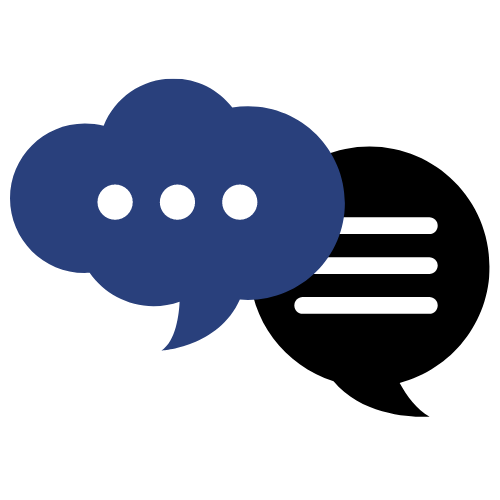
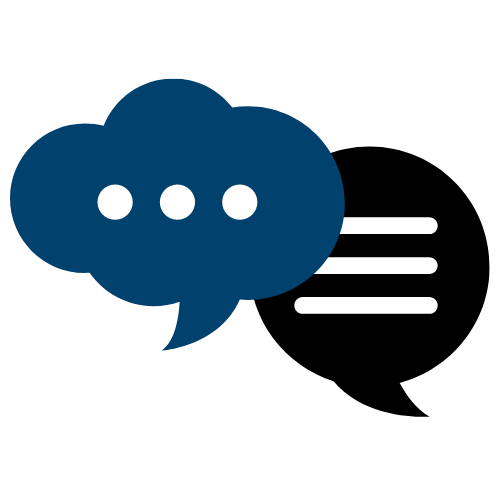
added colour

Changed region(s): [[0.0, 0.15, 0.69, 0.72]]

diff --git a/index.html b/index.html
@@ -190,7 +190,7 @@
 
       .button 
       {
-        background-color: #29407C;
+        background-color: #00416d;
         border: none;
         color: white;
         padding: 8px;
@@ -385,7 +385,7 @@
   <body>
 
     <div class="topnav" id="myTopnav">
-      <a href="index.html" style="font-family: 'Poppins', sans-serif; margin-right:2%; color:black; border-bottom: 2px solid #29407C;">Home</a>
+      <a href="index.html" style="font-family: 'Poppins', sans-serif; margin-right:2%; color:black; border-bottom: 2px solid #00416d;">Home</a>
       <a href="contact.html" style="font-family: 'Poppins', sans-serif;">Contact</a>
       <a href="https://drive.google.com/file/d/12OW3nIJXCdcKeCEGhQVOR6-24cOM_pOw/view?usp=sharing" style="font-family: 'Poppins', sans-serif;" target="_blank">Resume</a>
       <a href="about.html" style="font-family: 'Poppins', sans-serif;">About</a>
@@ -402,7 +402,7 @@
           <img src="miloHome.png" width="65%" >
       </div>
       <div class="columnIntro" style=" text-align:center;padding-top:3%; ">
-          <a style="text-align:center;font-family: 'Abril Fatface', cursive; font-size:400%;">Miloni Mittal</a>
+          <a style="text-align:center;font-family: 'Abril Fatface', cursive; font-size:400%;"><span style="background: linear-gradient(to top, #c4fb6d 50%, transparent 50%);">Miloni Mittal</span></a>
           <br><br>
           <p style="font-family: 'Poppins', sans-serif; font-size:112.5%; ">A final year undergraduate at BITS Pilani, who is passionate about solving problems using the power of data.<br><br></p>
           <div class="social">
@@ -419,10 +419,10 @@
       <a name="target" id="education"> </a>
     </div>
 
-    <p style="text-align:center;font-family: 'Abril Fatface', cursive; font-size:300%; color:white;background-color: black;margin-right:3%;margin-left:3%;">
-        Education
+    <p style="text-align:center;font-family: 'Abril Fatface', cursive; font-size:300%; color:white;background-color:black;margin-right:3%;margin-left:3%;padding-bottom:1.5%;"><span style="background: linear-gradient(to top, #00416d 50%, transparent 50%);">
+        Education</span>
     </p>
-<div class="edu" style="box-shadow: 0 4px 8px 0 rgba(0, 0, 0, 0.2);margin-right:3%;margin-left:3%;padding-top:2%;padding-bottom:2%;">
+    
     <p style="font-family: 'Poppins', sans-serif; margin-top:2%; margin-left:7.5%;margin-right:7.5%;">
         <b style="font-family: 'Poppins', sans-serif; font-size: 125%;">Birla Institute of Technology and Science Pilani, Pilani Campus- BITS Pilani (2017 - 2021)</b><br>
         B.E. Electrical and Electronics, Minor in Data Science <br>
@@ -440,13 +440,13 @@
         <b>ICSE 10th Grade: 96.17%</b><br>
         100% in Computer Science & Mathematics • Awarded as the Best Female All-Rounder among 200 girls
     </p>
-</div>
+    
     <div class="anchor" style="padding-top:2%;" >
       <a name="target" id="internships"> </a>
     </div>
 
-    <p style="text-align:center;font-family: 'Abril Fatface', cursive; font-size:300%; color:white; background-color:black;margin-right:3%;margin-left:3%;">
-        Internships
+    <p style="text-align:center;font-family: 'Abril Fatface', cursive; font-size:300%; color:white;background-color:black;margin-right:3%;margin-left:3%;padding-bottom:1.5%;"><span style="background: linear-gradient(to top, #00416d 50%, transparent 50%);">
+        Internships</span>
     </p>
 
     <div class="rowAwards" style="font-family: 'Poppins', sans-serif; margin-top:2%; margin-left:7.5%;margin-right:7.5%;">
@@ -454,7 +454,7 @@
             <img src="bnymLogo.jpg" alt="Forest" style="width:50%;">
       </div>
       <div class="columnAwardsText">
-            <p style="font-family: 'Poppins', sans-serif; margin-top:2%; "><b style="font-family: 'Poppins', sans-serif; font-size:125%;"><a href="https://www.bnymellon.com/apac/en.html" target="_blank" style="text-decoration: none;color:#29407C;">
+            <p style="font-family: 'Poppins', sans-serif; margin-top:2%; "><b style="font-family: 'Poppins', sans-serif; font-size:125%;"><a href="https://www.bnymellon.com/apac/en.html" target="_blank" style="text-decoration: none;color:#00416d;">
                 Bank of New York Mellon, Pune</a></b> <br>August 2020 - Present
             </p>
             <p style="font-family: 'Poppins', sans-serif;">
@@ -475,7 +475,7 @@
         <img src="walmartLogo.jpg" alt="Forest" style="width:50%;">
       </div>
       <div class="columnAwardsText">
-        <p style="font-family: 'Poppins', sans-serif; margin-top:2%; "><b style="font-family: 'Poppins', sans-serif; font-size:125%;"><a href="https://www.linkedin.com/company/walmartglobaltechindia/" target="_blank" style="text-decoration: none;color:#29407C;">
+        <p style="font-family: 'Poppins', sans-serif; margin-top:2%; "><b style="font-family: 'Poppins', sans-serif; font-size:125%;"><a href="https://www.linkedin.com/company/walmartglobaltechindia/" target="_blank" style="text-decoration: none;color:#00416d;">
                 Walmart Global Tech, Bangalore</a></b> <br>May - July 2020<br>
         </p>
         <p style="font-family: 'Poppins', sans-serif;">
@@ -496,7 +496,7 @@
         <img src="iimaLogo.png" alt="Forest" style="width:50%;">
       </div>
       <div class="columnAwardsText">
-        <p style="font-family: 'Poppins', sans-serif; margin-top:2%; "><b style="font-family: 'Poppins', sans-serif; font-size:125%;"><a href="https://www.iima.ac.in/" target="_blank" style="text-decoration: none;color:#29407C;">
+        <p style="font-family: 'Poppins', sans-serif; margin-top:2%; "><b style="font-family: 'Poppins', sans-serif; font-size:125%;"><a href="https://www.iima.ac.in/" target="_blank" style="text-decoration: none;color:#00416d;">
                 Indian Institute of Management, Ahmedabad </a></b> <br>December 2019 - January 2020
         </p>
         <p style="font-family: 'Poppins', sans-serif;">
@@ -517,7 +517,7 @@
         <img src="ceeriLogo.png" alt="Forest" style="width:50%;">
       </div>
       <div class="columnAwardsText">
-        <p style="font-family: 'Poppins', sans-serif; margin-top:2%; "><b style="font-family: 'Poppins', sans-serif; font-size:125%;"><a href="https://www.csircmc.res.in/ceeri" target="_blank" style="text-decoration: none;color:#29407C;">
+        <p style="font-family: 'Poppins', sans-serif; margin-top:2%; "><b style="font-family: 'Poppins', sans-serif; font-size:125%;"><a href="https://www.csircmc.res.in/ceeri" target="_blank" style="text-decoration: none;color:#00416d;">
                 Central Electronics Engineering Research Institute, Chennai</a></b> <br>May - July 2019
         </p>
         <p style="font-family: 'Poppins', sans-serif;">
@@ -543,7 +543,7 @@
     </div>
 
     <p style="text-align:center;font-family: 'Abril Fatface', cursive; font-size:300%; color:black;">
-        Projects
+        <span style="background: linear-gradient(to top, #c4fb6d 50%, transparent 50%);">Projects</span>
     </p>
 
     <div class="rowCard" >
@@ -634,15 +634,15 @@
       <a name="target" id="publications"> </a>
     </div>
 
-    <p style="text-align:center;font-family: 'Abril Fatface', cursive; font-size:300%; color:white;background-color: black;margin-right:3%;margin-left:3%; ">
-        Publications
+    <p style="text-align:center;font-family: 'Abril Fatface', cursive; font-size:300%; color:white;background-color:black;margin-right:3%;margin-left:3%;padding-bottom:1.5%;"><span style="background: linear-gradient(to top, #00416d 50%, transparent 50%);">
+        Publications</span>
     </p>
 
     <div class="rowAwards" style="font-family: 'Poppins', sans-serif; margin-left:7.5%;margin-right:7.5%;">
       <div class="columnAwardsText">
         <p style="font-family: 'Poppins', sans-serif;">
             <b style="font-family: 'Poppins', sans-serif; font-size:125%;">
-            Real Time Foreground Segmentation in Videos with Dynamic Background<br><a href="https://www.indicon2020.in/" target="_blank" style="text-decoration: none;color:#29407C">INDICON 2020 (IEEE India Council International Conference)</a></b>
+            Real Time Foreground Segmentation in Videos with Dynamic Background<br><a href="https://www.indicon2020.in/" target="_blank" style="text-decoration: none;color:#00416d">INDICON 2020 (IEEE India Council International Conference)</a></b>
             <br>
             <b>Project Description:</b>
             <br>
@@ -659,8 +659,8 @@
         <a name="target" id="awards"> </a>
     </div>
 
-    <p style="text-align:center;font-family: 'Abril Fatface', cursive; font-size:300%;background-color:black;color:white;margin-right:3%;margin-left:3%;">
-        Awards
+    <p style="text-align:center;font-family: 'Abril Fatface', cursive; font-size:300%; color:white;background-color:black;margin-right:3%;margin-left:3%;padding-bottom:1.5%;"><span style="background: linear-gradient(to top, #00416d 50%, transparent 50%);">
+        Awards</span>
     </p>
 
     <div class="rowAwards" style="font-family: 'Poppins', sans-serif; margin-top:2%; margin-left:7.5%;margin-right:7.5%;">
@@ -670,7 +670,7 @@
       <div class="columnAwardsText">
         <p style="font-family: 'Poppins', sans-serif;">
           <b style="font-family: 'Poppins', sans-serif; font-size:125%;">
-              NetApp Women INnovathon Second Runner Up<br><a href="https://www.netapp.com/" target="_blank" style="text-decoration: none; color: #29407C">NetApp, Inc.</a>
+              NetApp Women INnovathon Second Runner Up<br><a href="https://www.netapp.com/" target="_blank" style="text-decoration: none; color: #00416d">NetApp, Inc.</a>
           </b>
           <br>
               <b>October 2020</b>
@@ -687,7 +687,7 @@
       <div class="columnAwardsText">
         <p style="font-family: 'Poppins', sans-serif;">
           <b style="font-family: 'Poppins', sans-serif; font-size:125%;">
-              Grace Hopper Celebration India Student Scholar<br><a href="https://anitab.org/india/" target="_blank" style="text-decoration: none;color:#29407C">Anita B.org</a>
+              Grace Hopper Celebration India Student Scholar<br><a href="https://anitab.org/india/" target="_blank" style="text-decoration: none;color:#00416d">Anita B.org</a>
           </b>
           <br>
               <b>July 2020</b>
@@ -701,12 +701,12 @@
         <a name="target" id="blogs"> </a>
     </div>
 
-    <p style="text-align:center;font-family: 'Abril Fatface', cursive; font-size:300%;background-color:black;color:white;margin-right:3%;margin-left:3%;">
-        Blogs
+    <p style="text-align:center;font-family: 'Abril Fatface', cursive; font-size:300%; color:white;background-color:black;margin-right:3%;margin-left:3%;padding-bottom:1.5%;"><span style="background: linear-gradient(to top, #00416d 50%, transparent 50%);">
+        Blogs</span>
     </p>
 
     <p style="text-align: center;font-family: 'Poppins', sans-serif; font-size:125%;margin-left:6%;margin-right:6%;">
-    I love to write about my experiences and projects on my <a href="https://medium.com/@milonimittal" style="font-family: 'Poppins', sans-serif;text-decoration: none;color:#29407C;" target="_blank"><b>Medium</b></a> blog.<br><br>  
+    I love to write about my experiences and projects on my <a href="https://medium.com/@milonimittal" style="font-family: 'Poppins', sans-serif;text-decoration: none;color:#00416d;" target="_blank"><b>Medium</b></a> blog.<br><br>  
     </p>
     <div class="rowBlog">
       <div class="columnBlog">

diff --git a/contact.html b/contact.html
@@ -109,7 +109,7 @@
 
       .button 
       {
-        background-color: #29407C;
+        background-color: #00416d;
         border: none;
         color: white;
         padding: 8px;
@@ -207,7 +207,7 @@
   <body>
     <div class="topnav" id="myTopnav">
       <a href="index.html" style="font-family: 'Poppins', sans-serif; margin-right:2%;">Home</a>
-      <a href="contact.html" style="font-family: 'Poppins', sans-serif; color:black; border-bottom: 2px solid #29407C;">Contact</a>
+      <a href="contact.html" style="font-family: 'Poppins', sans-serif; color:black; border-bottom: 2px solid #00416d;">Contact</a>
       <a href="https://drive.google.com/file/d/12OW3nIJXCdcKeCEGhQVOR6-24cOM_pOw/view?usp=sharing" style="font-family: 'Poppins', sans-serif;" target="_blank">Resume</a>
       <a href="about.html" style="font-family: 'Poppins', sans-serif;">About</a>
       <a href="javascript:void(0);" class="icon" onclick="myFunction()">
@@ -217,21 +217,21 @@
     </div><br><br><br><br>
 
     <div class="row" style="padding-top:7.5%;">
-      <div class="column" style="background-color: #F5F5F5;padding-bottom:2%;">
-        <p style="font-family: 'Poppins', sans-serif; text-align:center; font-size:200%;"><b>Let's connect!</b></p>
+      <div class="column" style="padding-bottom:2%; margin-top:-4%;">
+        <p style="font-family: 'Abril Fatface', cursive; text-align:center; font-size:200%;"><b><span style="background: linear-gradient(to top, #c4fb6d 50%, transparent 50%);">Let's connect!</span></b></p>
         <div class="social">
-            <a href="https://www.linkedin.com/in/miloni-mittal/" class="link linkedin" target="_blank"><span class="fa fa-linkedin"></span></a><a href="https://www.linkedin.com/in/miloni-mittal/" style="font-family: 'Poppins', sans-serif; text-align:center; font-size:125%; text-decoration:none; color:#29407C;" target="_blank">/miloni-mittal</a>
+            <a href="https://www.linkedin.com/in/miloni-mittal/" class="link linkedin" target="_blank"><span class="fa fa-linkedin"></span></a><a href="https://www.linkedin.com/in/miloni-mittal/" style="font-family: 'Poppins', sans-serif; text-align:center; font-size:125%; text-decoration:none; color:#00416d;" target="_blank">/miloni-mittal</a>
         </div>
         
         <div class="social">
-            <a href="mailto:miloni.mittal@gmail.com" class="link google-plus" target="_blank"><span class="fa fa-google-plus-square"></span></a><a href="mailto:miloni.mittal@gmail.com" style="font-family: 'Poppins', sans-serif; text-align:center; font-size:125%;text-decoration:none; color:#29407C;" target="_blank">miloni.mittal@gmail.com</a>
+            <a href="mailto:miloni.mittal@gmail.com" class="link google-plus" target="_blank"><span class="fa fa-google-plus-square"></span></a><a href="mailto:miloni.mittal@gmail.com" style="font-family: 'Poppins', sans-serif; text-align:center; font-size:125%;text-decoration:none; color:#00416d;" target="_blank">miloni.mittal@gmail.com</a>
         </div>
         <div class="social">
-            <a href="https://github.com/milonimittal" class="link github" target="_blank"><span class="fa fa-github"></span></a><a href="https://github.com/milonimittal" style="font-family: 'Poppins', sans-serif; text-align:center; font-size:125%;text-decoration:none; color:#29407C;" target="_blank">/milonimittal</a>
+            <a href="https://github.com/milonimittal" class="link github" target="_blank"><span class="fa fa-github"></span></a><a href="https://github.com/milonimittal" style="font-family: 'Poppins', sans-serif; text-align:center; font-size:125%;text-decoration:none; color:#00416d;" target="_blank">/milonimittal</a>
         </div>
         
         <div class="social">
-            <a href="https://medium.com/@milonimittal" class="link medium" target="_blank"><span class="fa fa-medium"></span></a><a href="https://medium.com/@milonimittal" style="font-family: 'Poppins', sans-serif; text-align:center; font-size:125%;text-decoration:none; color:#29407C;" target="_blank">/@milonimittal</a>
+            <a href="https://medium.com/@milonimittal" class="link medium" target="_blank"><span class="fa fa-medium"></span></a><a href="https://medium.com/@milonimittal" style="font-family: 'Poppins', sans-serif; text-align:center; font-size:125%;text-decoration:none; color:#00416d;" target="_blank">/@milonimittal</a>
 
         </div>
       </div>

diff --git a/about.html b/about.html
@@ -191,7 +191,7 @@
 
       .button
       {
-        background-color: #29407C;
+        background-color: #00416d;
         border: none;
         color: white;
         padding: 8px;
@@ -343,7 +343,7 @@
       <a href="index.html" style="font-family: 'Poppins', sans-serif; margin-right:2%;">Home</a>
       <a href="contact.html" style="font-family: 'Poppins', sans-serif;">Contact</a>
       <a href="https://drive.google.com/file/d/12OW3nIJXCdcKeCEGhQVOR6-24cOM_pOw/view?usp=sharing" style="font-family: 'Poppins', sans-serif;" target="_blank">Resume</a>
-      <a href="about.html" style="font-family: 'Poppins', sans-serif; color:black; border-bottom: 2px solid #29407C;">About</a>
+      <a href="about.html" style="font-family: 'Poppins', sans-serif; color:black; border-bottom: 2px solid #00416d;">About</a>
       <a href="javascript:void(0);" class="icon" onclick="myFunction()">
         <i class="fa fa-bars"></i>
       </a>
@@ -368,7 +368,7 @@
       </div>
       <div class="columnAwardsText">
         <p style="text-align:left;font-family: 'Abril Fatface', cursive; font-size:150%; ">
-            Hello! I am Miloni.
+            <span style="background: linear-gradient(to top, #c4fb6d 50%, transparent 50%);">Hello! I am Miloni.</span>
         </p>
         <p style="font-family: 'Poppins', sans-serif;">
         	I am a data person, explorer and dancer.<br><br>
@@ -410,16 +410,16 @@ In a nutshell, I thoroughly enjoy it when I get a raw dataset in hand to build s
     </button>
     </p>
 
-    <h1 style="text-align:center;font-family: 'Abril Fatface', cursive; font-size:200%; ">Women of BITS</h1>
+    <h1 style="text-align:center;font-family: 'Abril Fatface', cursive; font-size:200%; "><span style="background: linear-gradient(to top, #c4fb6d 50%, transparent 50%);">Women of BITS</span></h1>
     <p style="text-align:center;font-family: 'Poppins', sans-serif; margin-left:10%;margin-right:10%;">Over the three years at college, I realized that there are many female leaders across various fields, but they are not being represented adequately. Moreover, I felt that there was a lack of awareness about opportunities at the right time among all students. Hence, we combined these two to build Women of BITS- an inter-campus initiative to increase awareness about opportunities at the right time by showcasing success stories of BITSian women.  <br>
-    <a href="https://www.linkedin.com/company/women-of-bits/" style="text-decoration: none; color:#29407C;" target="_blank">LinkedIn</a> | <a href="https://www.youtube.com/channel/UCJIorte6_bSV89ytwtwRD0w" style="text-decoration: none; color:#29407C;" target="_blank">YouTube </a> | <a href="https://www.instagram.com/womenofbits/" style="text-decoration: none; color:#29407C;" target="_blank">Instagram</a>
+    <a href="https://www.linkedin.com/company/women-of-bits/" style="text-decoration: none; color:#00416d;" target="_blank">LinkedIn</a> | <a href="https://www.youtube.com/channel/UCJIorte6_bSV89ytwtwRD0w" style="text-decoration: none; color:#00416d;" target="_blank">YouTube </a> | <a href="https://www.instagram.com/womenofbits/" style="text-decoration: none; color:#00416d;" target="_blank">Instagram</a>
     </p>
     <div class="wob" style="text-align:center;">
         <img src="wobLogo.png" width=100%;><br><br>
     </div>
   
 
-    <h1 style="text-align:center;font-family: 'Abril Fatface', cursive; font-size:200%; ">I Dance!</h1>
+    <h1 style="text-align:center;font-family: 'Abril Fatface', cursive; font-size:200%; "><span style="background: linear-gradient(to top, #c4fb6d 50%, transparent 50%);">I Dance!</span></h1>
     <p style="text-align:center;font-family: 'Poppins', sans-serif; margin-left:10%;margin-right:10%; ">Dance has been my passion since childhood. I have been a part of the Dance Club at BITS Pilani, leading a 12 member team for a year, dancing in competitions & events and organizing national level dance events for three years. I majorly perform contemporary and folk dance styles. </p>
     <div class="rowDance">
       
